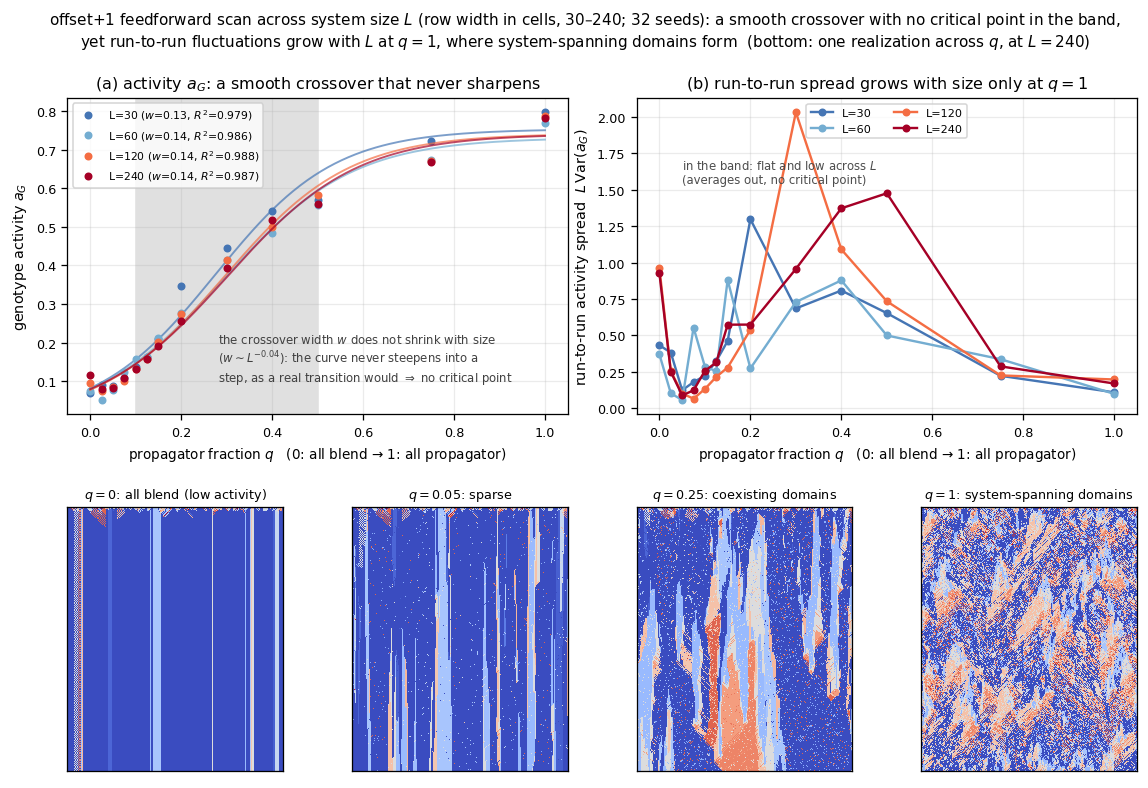
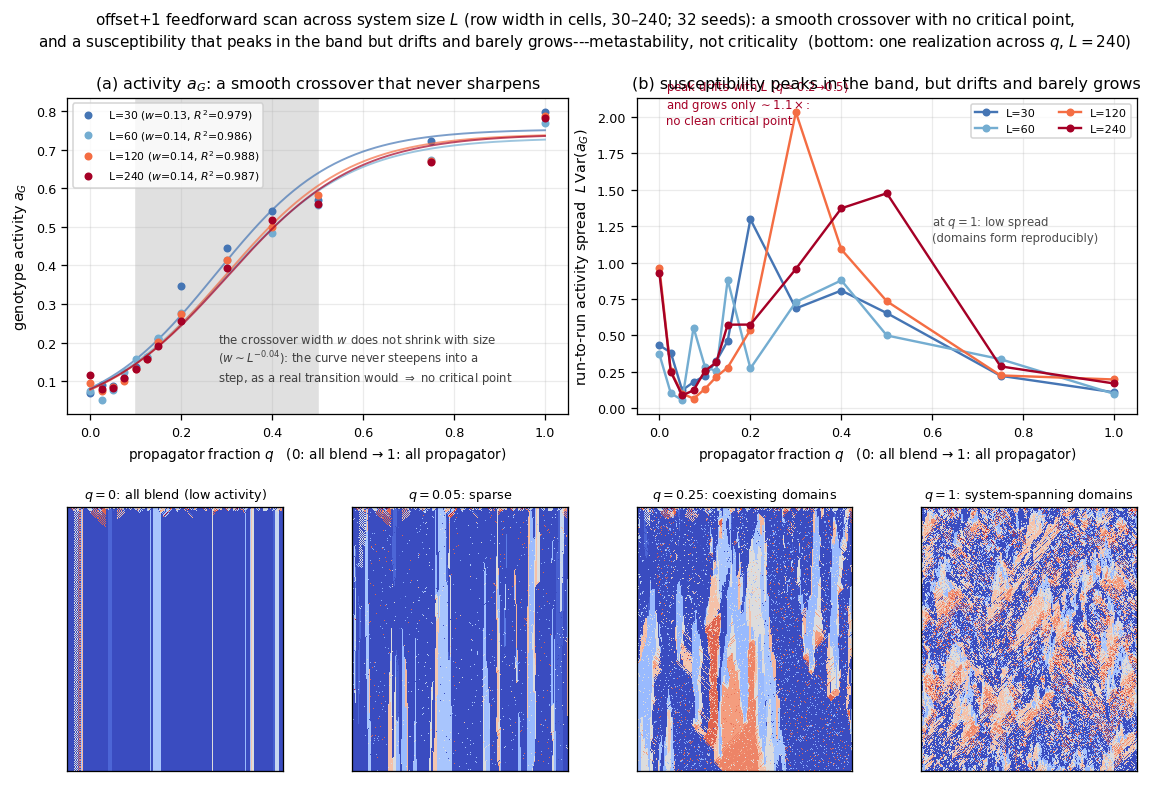
draft4: fix Fig 12(b) claims to match curve (offset+1; susceptibility peaks in band, metastability)
find:crossover + fig:phase caption rewritten: operator is offset+1 (not +2); the
run-to-run spread peaks in the band (not flat), drifts and barely grows -> no
critical point, metastability; at q=1 the spread is low (domains form reproducibly).

diff --git a/holes/tech-notes/paper/draft4.tex b/holes/tech-notes/paper/draft4.tex
@@ -920,21 +920,23 @@ answerable question: whether the sustained diversity is spatially organised into
 coexisting dynamical regimes.
 \end{expositionbox}
 
-\begin{empiricalfinding}[label={find:crossover}]{No critical point in the crossover; growing fluctuations at the pure-propagator limit}
+\begin{empiricalfinding}[label={find:crossover}]{No critical point: a drifting susceptibility peak, read as metastability}
 The natural control parameter is the \emph{propagator fraction} $q$ ($q = 0$ all
-blend, $q = 1$ all propagator). Across widths $L = 30$--$240$ (32 seeds each) the
-genotype activity $a_G(q)$ rises \emph{smoothly}, well described by a logistic
-crossover ($R^2 > 0.99$, Figure~\ref{fig:phase}a); crucially its width does not
-shrink with size ($w \approx 0.13$, $w \sim L^{-0.04}$), so the curve never
-steepens into the step a genuine critical transition would ($w \sim L^{-1/\nu}
-\to 0$). A second test---the size-scaled run-to-run spread $L\,\mathrm{Var}(a_G)$
-(Figure~\ref{fig:phase}b)---stays flat through the band (self-averaging) but
-\emph{grows} at $q = 1$, the pure-propagator limit at which offset $+2$ runs: the
-signature of activity organised into \emph{system-spanning domains}
-(Figure~\ref{fig:tint}). There is thus no critical point within the band; the
-fluctuations concentrate at $q = 1$, where the coexisting domains, walls, and
-genotype churn live. As $q = 1$ is the scan's boundary we claim no confirmed
-critical point there---only growing, non-self-averaging fluctuations.
+blend, $q = 1$ all propagator, offset $+1$). Across widths $L = 30$--$240$ (32
+seeds each) the genotype activity $a_G(q)$ rises \emph{smoothly}, well described
+by a logistic crossover ($R^2 > 0.99$, Figure~\ref{fig:phase}a); its width does
+not shrink with size ($w \approx 0.13$, $w \sim L^{-0.04}$), so the curve never
+steepens into the step a genuine transition would. The size-scaled run-to-run
+spread $L\,\mathrm{Var}(a_G)$ (Figure~\ref{fig:phase}b) is a susceptibility: it
+\emph{peaks} inside the crossover band, but the peak drifts in location
+($q \approx 0.15$--$0.5$ across $L$) and grows only ${\sim}1.1\times$ from the
+smallest width to the largest---failing the convergence-and-growth test a
+critical point requires. At $q = 1$, the pure-propagator limit at which offset
+$+1$ runs, the spread is instead \emph{low}: the field reliably organises into
+\emph{system-spanning domains} (Figure~\ref{fig:tint}), reproducibly rather than
+through a fluctuating transition. The honest reading is \emph{metastability}, not
+criticality---seed-dependent residence times dominate this horizon, and we claim
+no confirmed critical point.
 \end{empiricalfinding}
 
 \begin{empiricalfinding}[label={find:littoral}]{A finite-width littoral edge, not a phase boundary}
@@ -1006,20 +1008,21 @@ question for another paper.
 \begin{figure}[tb]
 \centering
 \includegraphics[width=\linewidth]{figures/eoc_phase.png}
-\caption{\textbf{No critical point in the crossover band; fluctuations grow at the
-pure-propagator limit.} offset $+2$ feedforward finite-size scan against the
+\caption{\textbf{No critical point: the susceptibility peaks in the band but
+drifts and barely grows.} offset $+1$ feedforward finite-size scan against the
 propagator fraction $q$ ($0$: all blend, $1$: all propagator). $L$ is the
 \emph{system size}---the lattice width in cells; the scan spans $L = 30$--$240$
 (32 seeds each), because a genuine transition sharpens as $L$ grows while a
 crossover does not. \textbf{(a)}~genotype activity $a_G$ with logistic fits
 ($R^2 > 0.99$); the crossover width is size-independent ($w \sim L^{-0.04}$), so
-the curve never sharpens into a transition. \textbf{(b)}~the run-to-run spread in
-activity, scaled by size ($L\,\mathrm{Var}(a_G)$): flat across sizes through the
-band (it averages out---no critical point), but growing with $L$ at $q = 1$,
-where the field organises into system-spanning domains. Bottom: one realisation
-($L = 240$, single seed) tinted by isolated-rule activity, from all-blend ($q=0$)
-to the pure-propagator limit ($q=1$)---whose system-spanning domains are exactly
-the structure that (b) detects.}
+the curve never sharpens into a transition. \textbf{(b)}~the size-scaled
+run-to-run spread $L\,\mathrm{Var}(a_G)$ is a susceptibility: it peaks inside the
+band, but the peak drifts ($q \approx 0.15$--$0.5$ across $L$) and grows only
+${\sim}1.1\times$, failing the convergence-and-growth test a critical point
+requires; at $q = 1$ the spread is low, the field forming system-spanning domains
+reproducibly. The honest reading is metastability, not criticality. Bottom: one
+realisation ($L = 240$, single seed) tinted by isolated-rule activity, from
+all-blend ($q=0$) to the pure-propagator limit ($q=1$).}
 \label{fig:phase}
 \end{figure}
 
